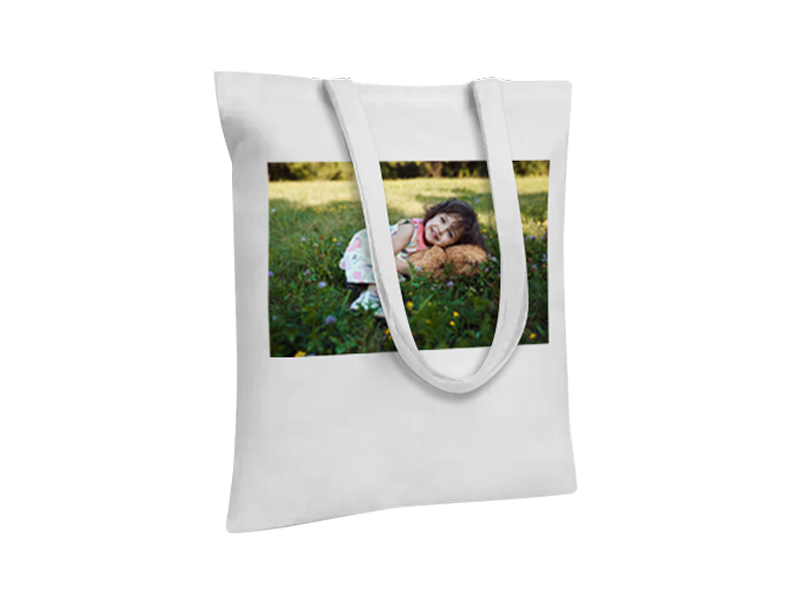
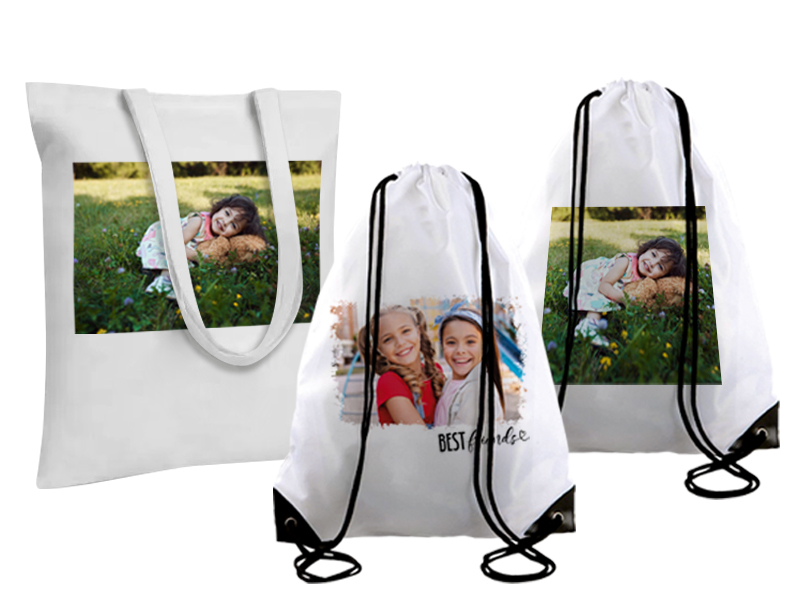
new

diff --git a/index.html b/index.html
@@ -140,9 +140,11 @@
 
       <div class="product">
         <img class="product__pic" src="assets/shopper.jpg" alt="Táska">
-        <h4>Fényképes vászontáska</h4>
-        <p class="product__text">Fehér színű</p>
-        <p>Egy oldalon nyomott</p>
+        <h4>Vászontáska / tornazsák</h4>
+        <p class="product__text">Egy oldalon nyomott, többféle kivitelben:</p>
+        <p>- Vászon bevásárlótáska fotóval</p>
+        <p>- Tornazsák fotóval</p>
+        <p>- Tornazsák "Best friends" stílusban páros képpel</p>
       </div>
 
       <div class="product">
